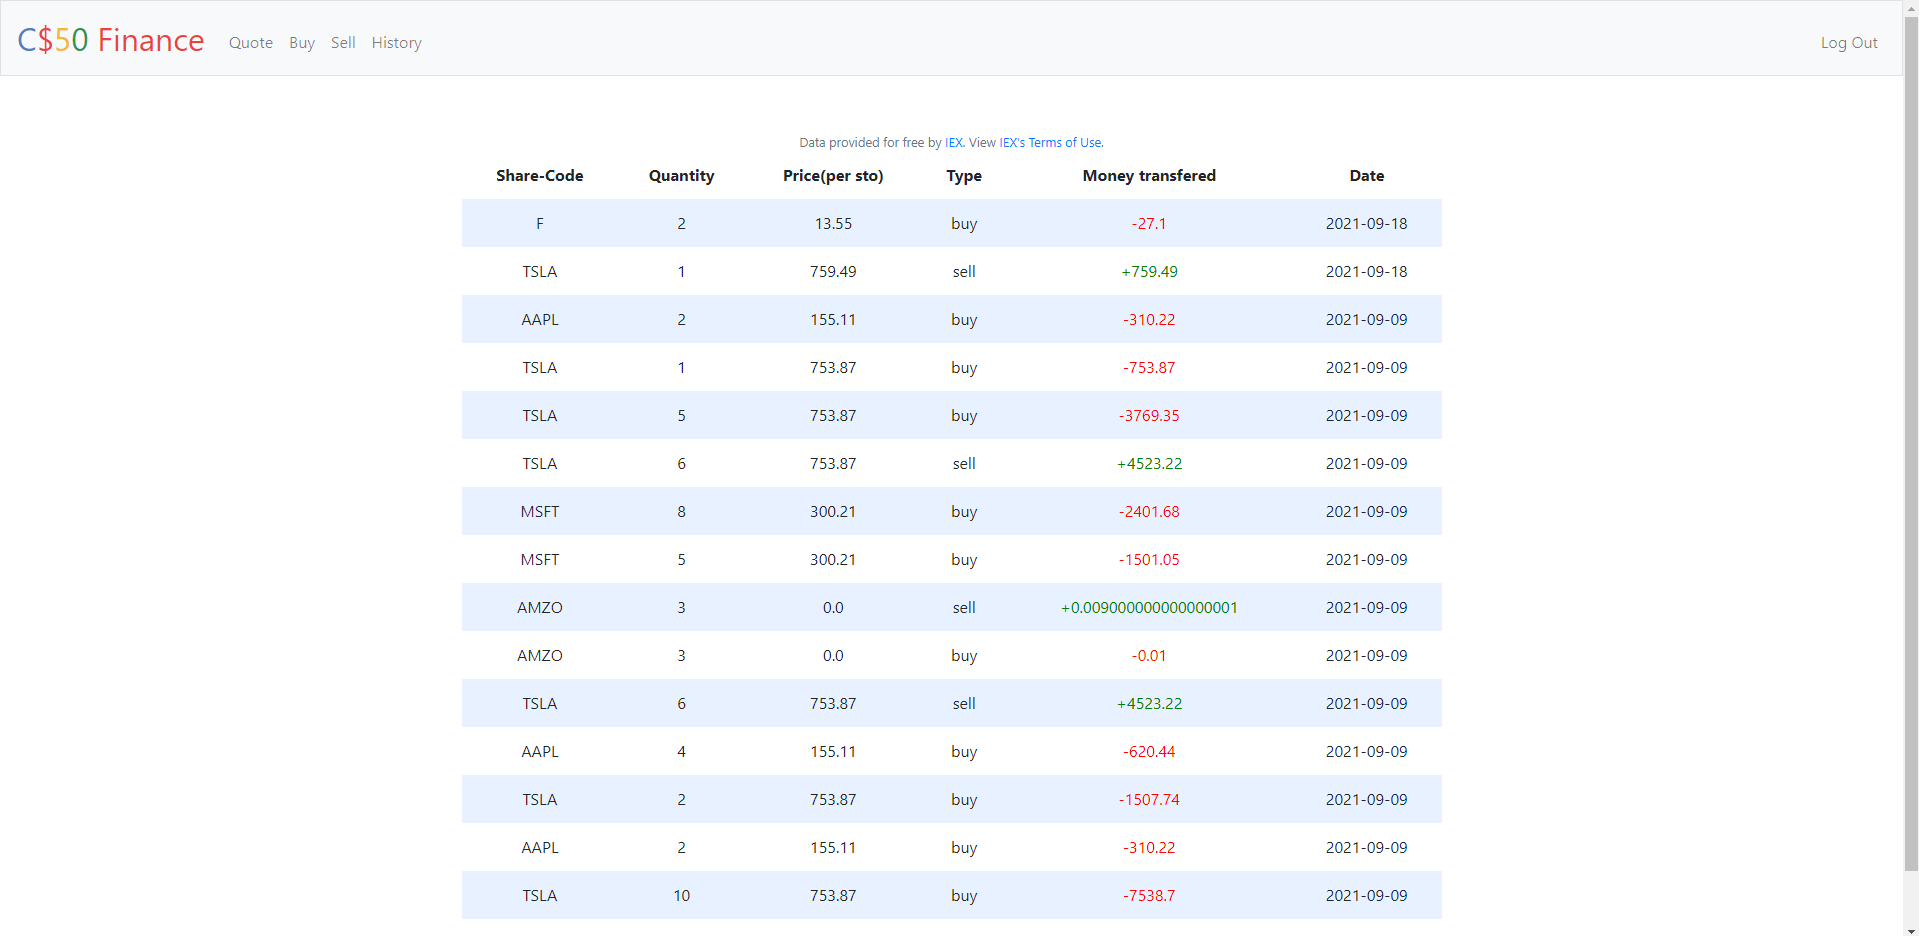
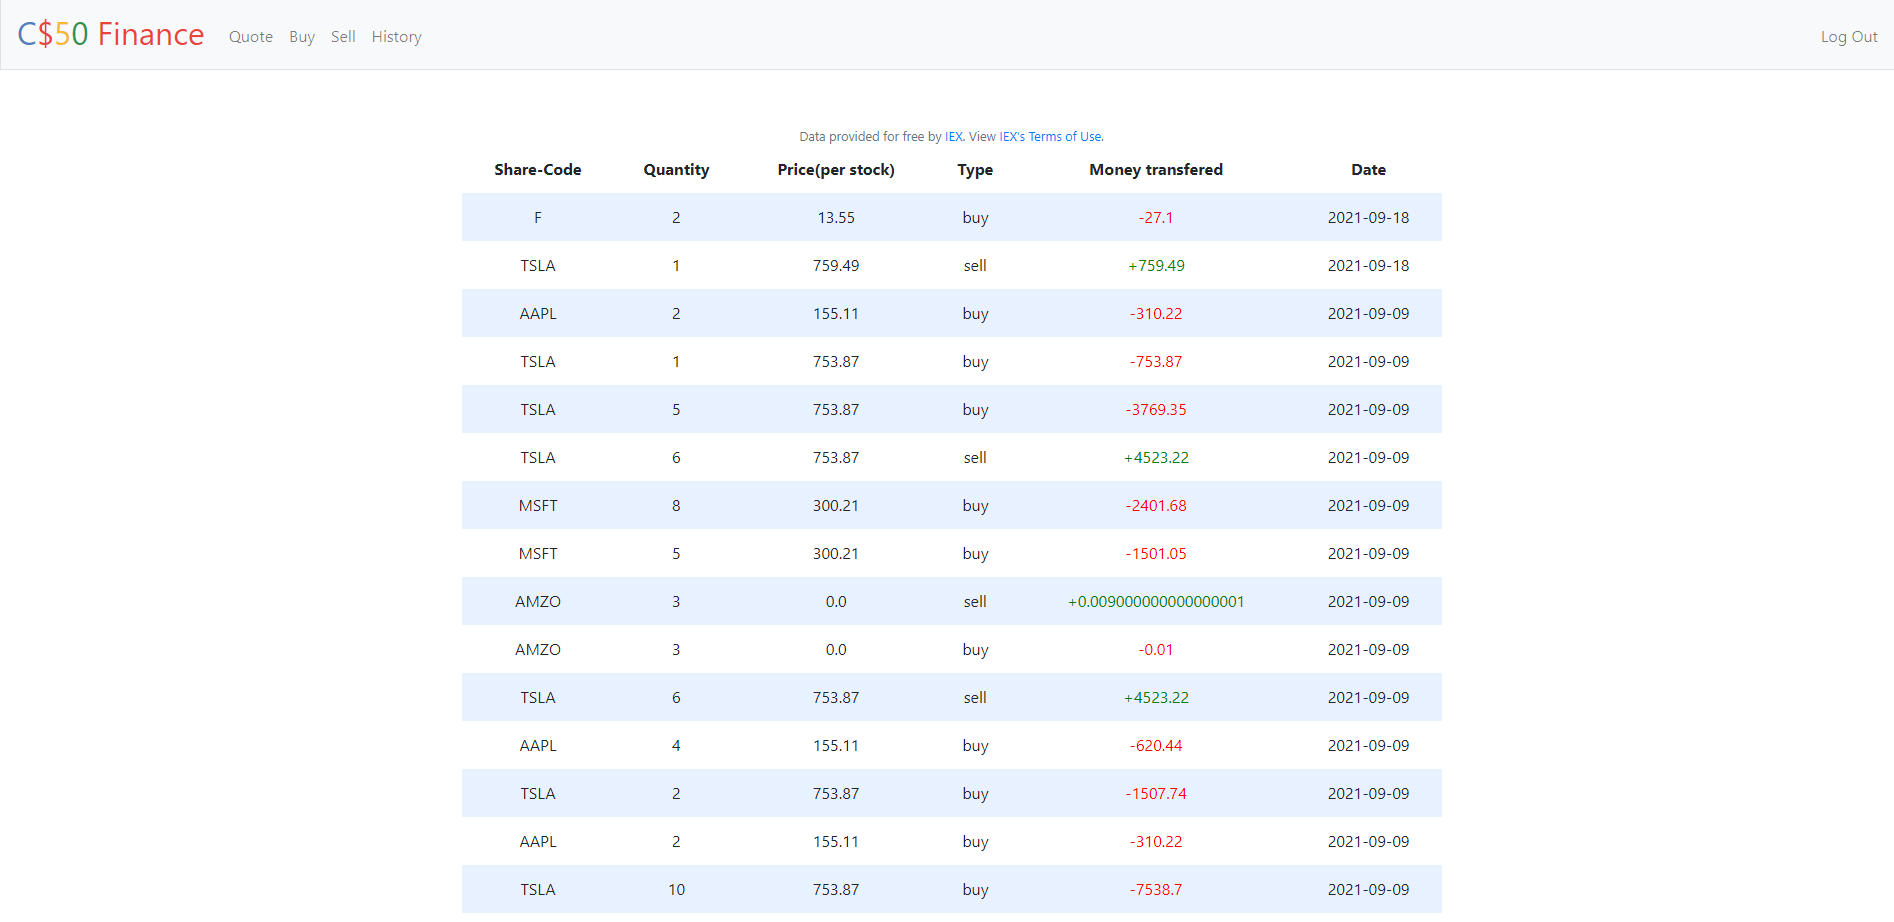
fixing a html and a image on readme

diff --git a/templates/history.html b/templates/history.html
@@ -12,7 +12,7 @@
                 <tr>
                     <th>Share-Code</th>
                     <th>Quantity</th>
-                    <th>Price(per sto)</th>
+                    <th>Price(per stock)</th>
                     <th>Type</th>
                     <th>Money transfered</th>
                     <th>Date</th>
